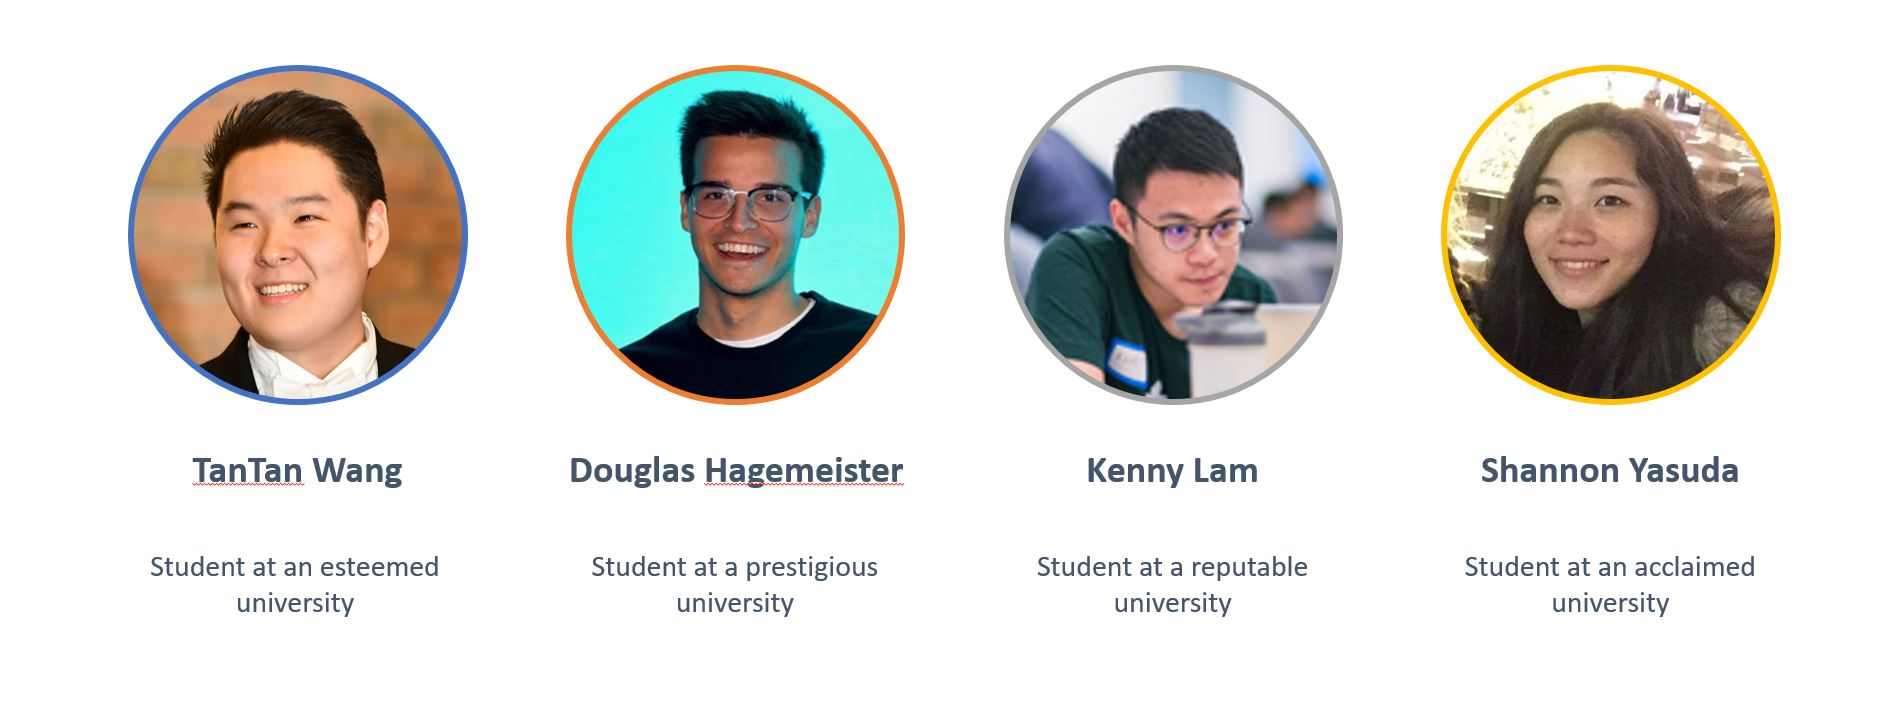
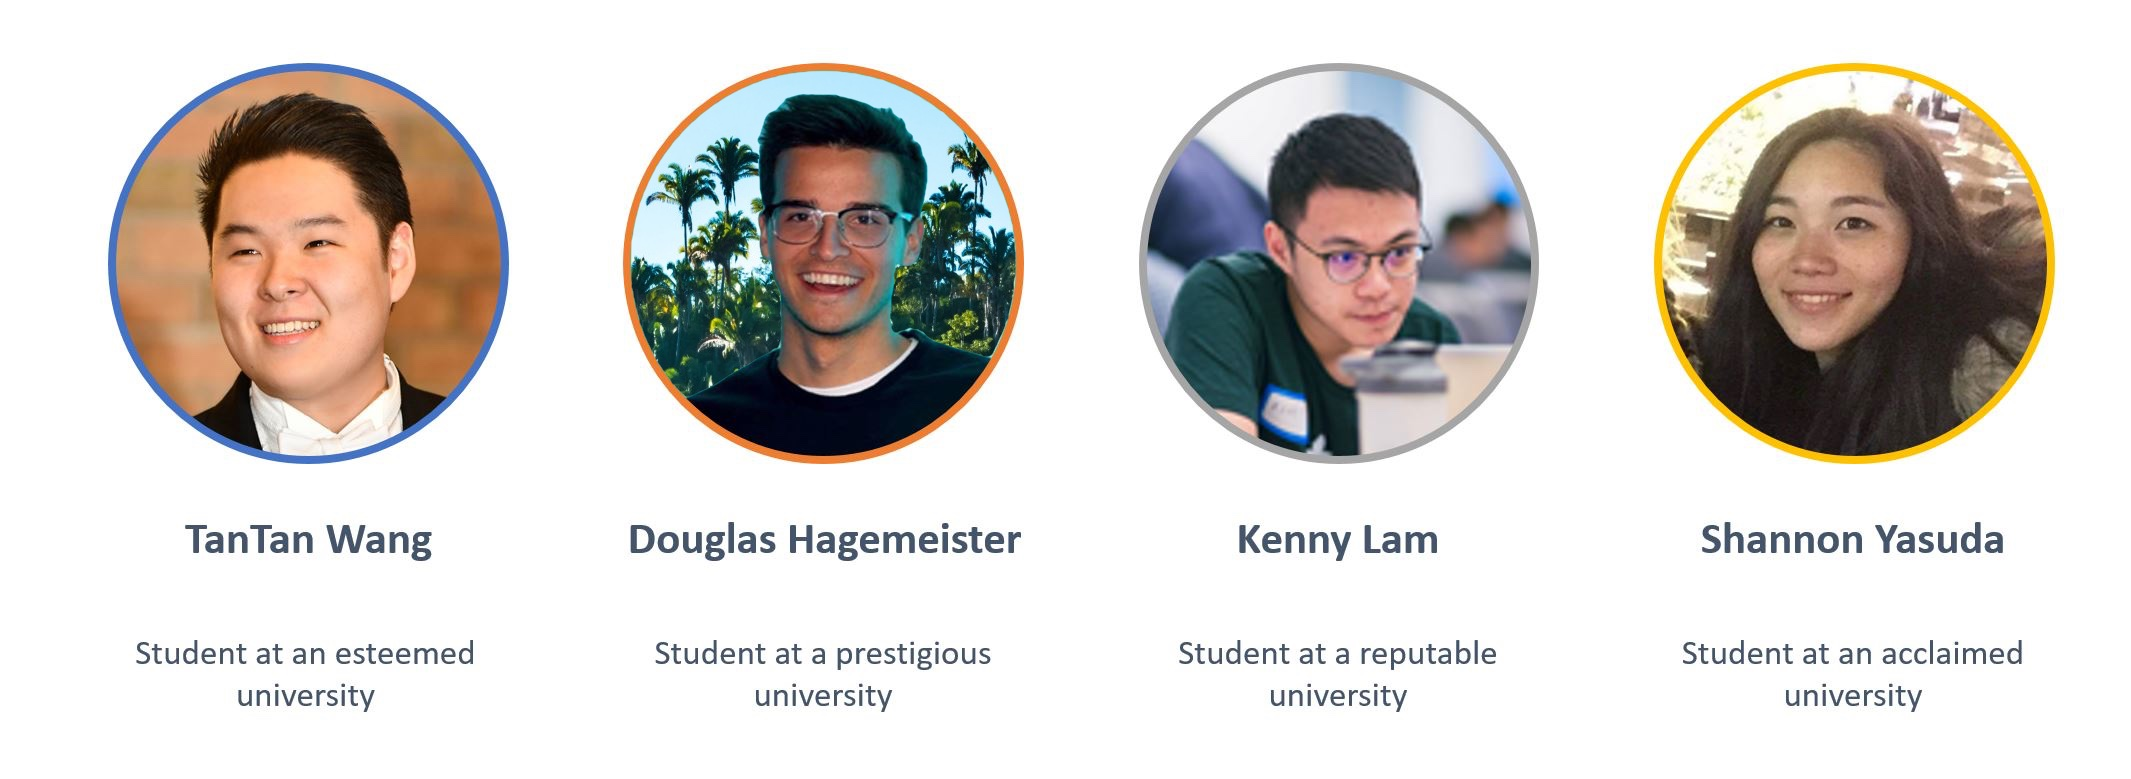
team

diff --git a/public/team.html b/public/team.html
@@ -44,7 +44,7 @@
 						<ul>
 							<li><a href="index.html">Home</a></li>
 							<li><a href="generic.html">About</a></li>
-							<li><a href="team.JPG">Team</a></li>
+							<li><a href="team.html">Team</a></li>
 							
 						</ul>
 					</nav>
@@ -52,8 +52,8 @@
 				<!-- Main -->
 					<div id="main">
 						<div class="inner">
-							<h1>Generic Page</h1>
-							<span class="image main"><img src="team.JPG" alt="" /></span>
+							<h1>Meet the Team</h1>
+							<span class="image main"><img src="team.jpg" alt="" /></span>
 							
 							
 							<p>Welcome to Inquiry! Our team welcomes you to this great platform. For science!</p>
@@ -94,7 +94,7 @@
 								</ul>
 							</section>
 							<ul class="copyright">
-								<li>&copy; Untitled. All rights reserved</li><li>Design: <a href="http://html5up.net">HTML5 UP</a></li>
+								<li>&copy; Inquiry. All rights reserved</li><li>Design: <a href="http://html5up.net">HTML5 UP</a></li>
 							</ul>
 						</div>
 					</footer>
